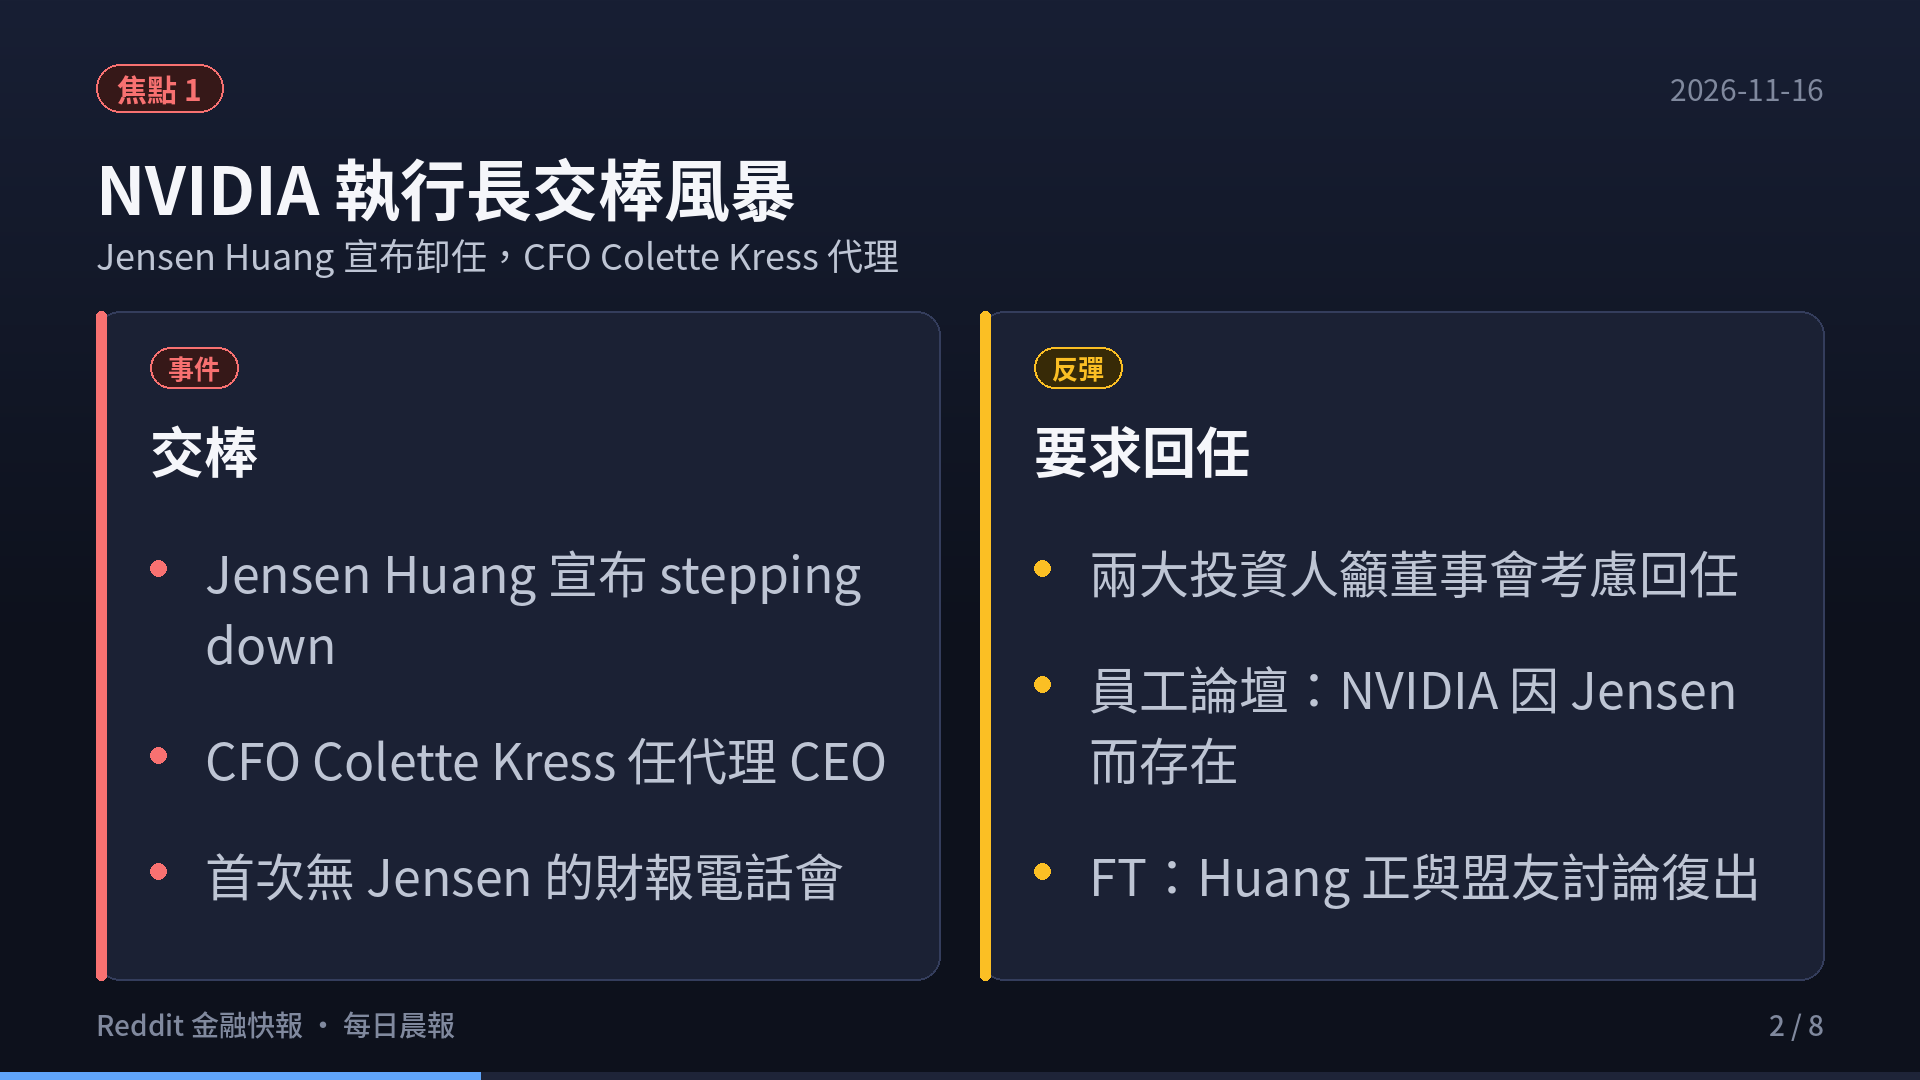
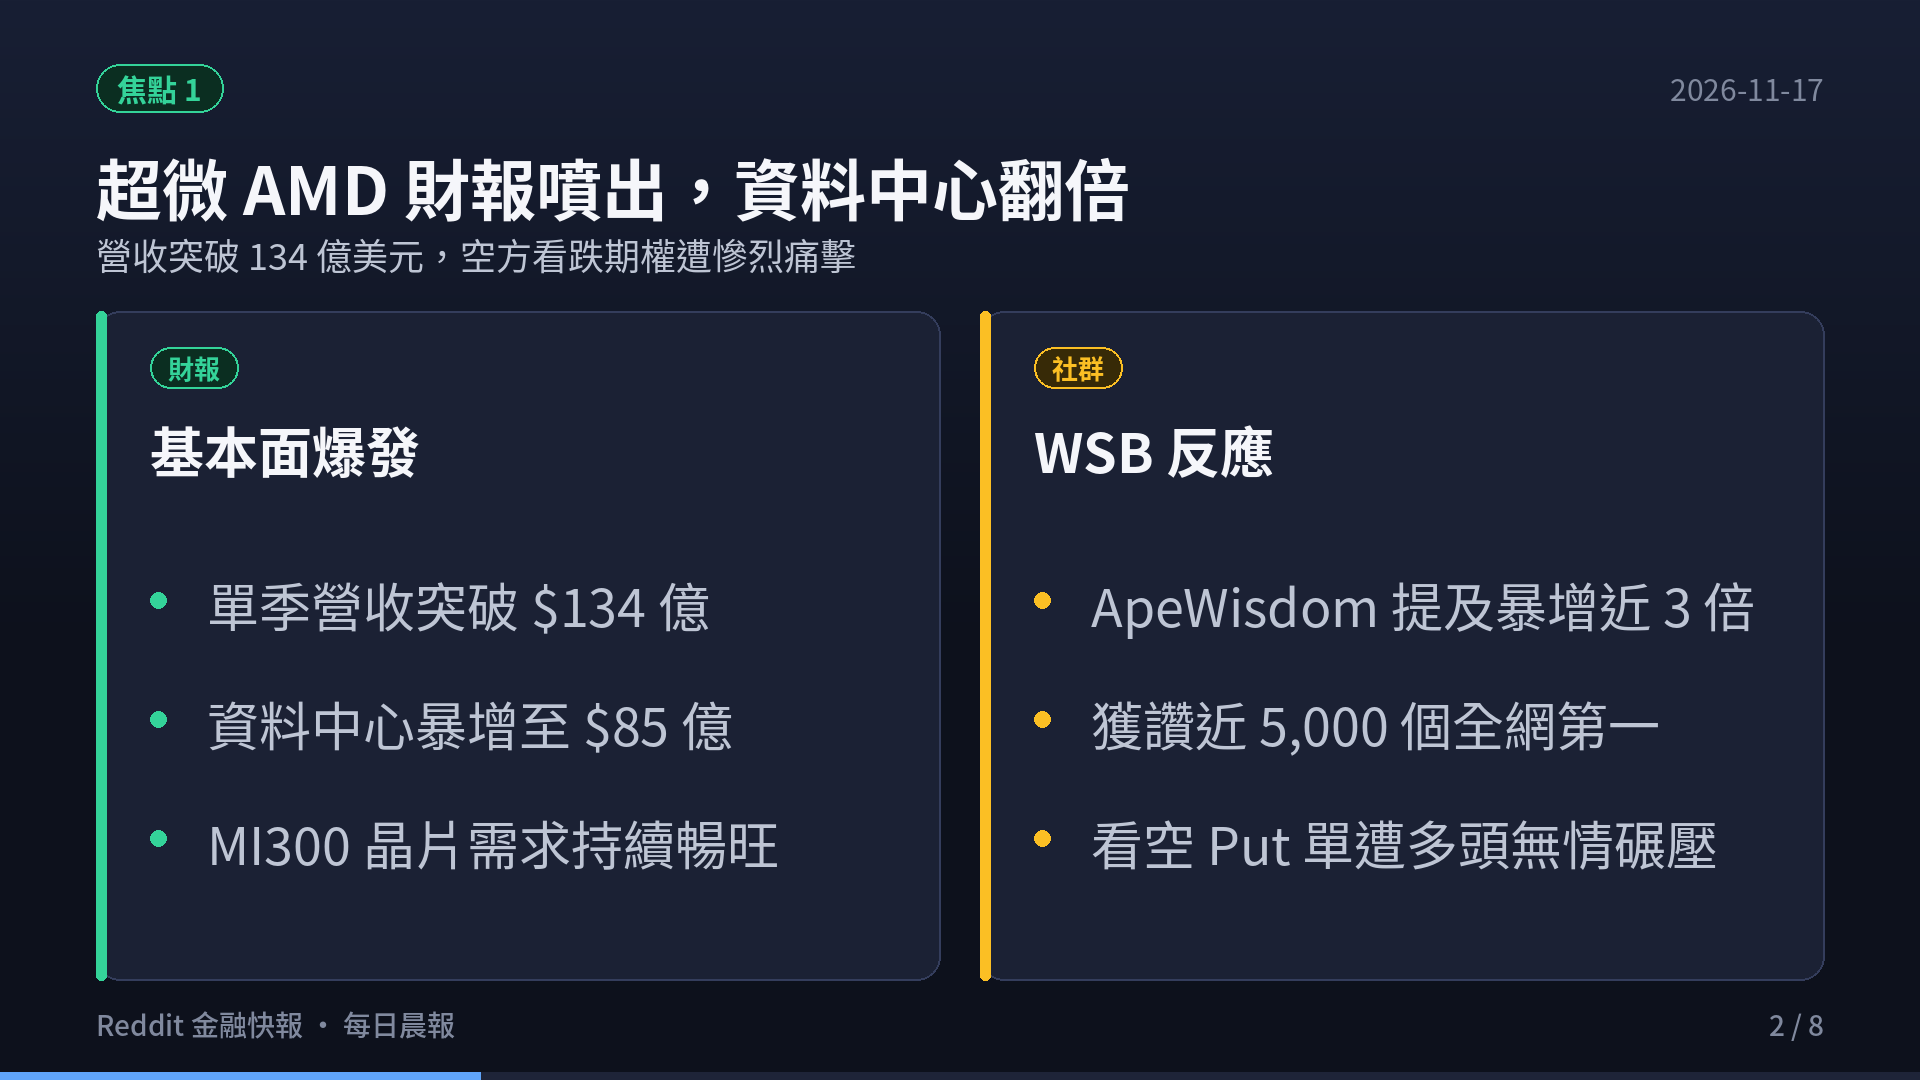
feat(blog): add Reddit finance daily report 2026-11-17 with slides and video

diff --git a/content/reddit-daily-summaries/index.md b/content/reddit-daily-summaries/index.md
@@ -1,20 +1,21 @@
 ---
-title: "Reddit 金融快報 · 2026-11-16：NVIDIA 執行長交棒風暴與五大核心板塊精華（09:00 更新版）"
-date: 2026-11-16T09:00:00+08:00
+title: "Reddit 金融快報 · 2026-11-17：美股五大核心板塊最新精華與聲量榜"
+date: 2026-11-17T06:00:00+08:00
 draft: false
 image: cover.png
 cover: "https://ckw19810413.github.io/reddit-daily-summaries/cover.png"
 url: "/reddit-daily-summaries/"
 aliases:
-  - "/blog/2026-11-16-0900-reddit-finance-daily/"
-description: "NVIDIA 執行長交棒、AI 晶片缺貨爭議、通膨與美債利率——Reddit 五大核心板塊近 3 日熱門話題 Top 3（09:00 證據版）。"
+  - "/blog/2026-11-17-reddit-finance-daily/"
+  - "/reddit-daily-summaries/2026-11-17/"
+description: "Reddit 美股五大核心板塊近 3 日熱門話題 Top 3 與 ApeWisdom 即時熱度監控。"
 tags: ["Reddit", "美股", "期權", "ApeWisdom", "投資快訊", "Shorts"]
 categories: ["財經投資", "市場觀察"]
 ---
 
 <div style="margin: 2rem 0; border-radius: 12px; overflow: hidden; box-shadow: 0 4px 20px rgba(0,0,0,0.12); border: 1px solid rgba(128,128,128,0.2);">
   <video controls width="100%" poster="s01.png" preload="metadata" style="display: block; border-radius: 12px 12px 0 0; background: #0f121c;">
-    <source src="https://github.com/ckw19810413/ckw19810413.github.io/releases/download/media-reddit-finance-daily/reddit-finance-2026-11-16-0900.mp4" type="video/mp4">
+    <source src="https://github.com/ckw19810413/ckw19810413.github.io/releases/download/media-reddit-finance-daily/reddit-finance-2026-11-17.mp4" type="video/mp4">
     您的瀏覽器不支援直接播放 MP4 影片。
   </video>
   <div style="background: rgba(0,0,0,0.03); padding: 10px 16px; font-size: 0.9rem; color: var(--card-text-color-secondary, #666); text-align: center; border-top: 1px solid rgba(128,128,128,0.15);">
@@ -22,65 +23,41 @@ categories: ["財經投資", "市場觀察"]
   </div>
 </div>
 
-# 每日 6:00AM Reddit 金融財經板塊最新資訊彙整報告（2026-11-16 09:00 更新版）
+# 每日 6:00AM Reddit 金融財經板塊最新資訊彙整報告（2026-11-17）
 
-> 本頁為當日 09:00 依實際抓取的 RSS 與 ApeWisdom 數據更新之證據版本，取代上午 06:00 版（06:00 版保留於 [/blog/2026-11-16-reddit-finance-daily/](/blog/2026-11-16-reddit-finance-daily/) 作為原始快照）。
+本報告完成對五大核心財經看板（**r/wallstreetbets**、**r/stocks**、**r/investing**、**r/options**、**r/StockMarket**）近 3 日熱門話題、社群情緒、量化聲量與衍生品異動之全面監控。
 
-> **監控看板**：r/wallstreetbets · r/stocks · r/investing · r/options · r/StockMarket
-> **觀測期間**：近 72 小時（2026-11-13 ～ 2026-11-16）
-> **資料來源**：Reddit top-week 討論串（RSS 實測）＋ ApeWisdom 即時聲量 API（2026-11-16 09:05 快照）
-> **方法**：依 subreddit top-week 貼文排序 + ApeWisdom 24h 提及量變化，選出各板近 3 日討論最熱之 3 大主題。
+> **監控看板**：r/wallstreetbets、r/stocks、r/investing、r/options、r/StockMarket  
+> **觀測期間**：近 72 小時  
+> **數據來源**：Reddit 核心社群實時討論流、ApeWisdom 全網即時熱度監控 API  
 
-## 🎯 跨板塊三大核心主題（本週主導敘事）
-
-1. **NVIDIA 執行長交棒風暴**：Jensen Huang 宣布 stepping down，CFO Colette Kress 任代理 CEO；「NVIDIA board urged by two major investors to consider Jensen Huang's return」、NYT 報導其私生活風波、Bessent 公開「torch」Jensen、Trump 喊 Tim Cook 接班——五大板塊全部被這串新聞洗版，WSB 提及量 277→356 居冠。
-2. **AI 晶片缺貨「人為製造」指控**：「So the 'shortage' was NVDA funding the startups that buy NVDA chips」——前執行長被指資助 AI 初創吸收過剩晶片；r/stocks 與 r/StockMarket 同週連發多貼。
-3. **通膨回溫 + 公債殖利率突破 5%**：10 月 PPI 年率 6.5%（近 4 年高點）、10-year US Bond Yield 突破 5.13%、Fed 的 Daly 稱「需要更多加息」，r/investing 理性派開始重估利率風險。
+## 🎯 跨板塊三大核心主題
+1. **超微（AMD）Q3 財報噴出突破，資料中心翻倍帶動晶片股多頭大軋空**
+2. **科技巨頭千億 AI 資本開支（CapEx）進入實質檢驗期，資金轉向防禦與現金**
+3. **上游半導體定價權依舊穩固，英特爾（INTC）多空末日期權對決白熱化**
 
 ## 📊 五大核心板塊近 3 日最熱話題 Top 3
+### 1. r/wallstreetbets（規模：1,800 萬+ · 類型：情緒／動能 · 雜訊：🔴 極高）
+- AMD Q3 財報噴出多頭軋空大暴賺
+- SMCI 審計風波與 INTC 末日期權博弈
+- 大選前夕科技股避險與 Loss Porn
 
-### 1. r/wallstreetbets（1,800 萬+ · 情緒/動能 · 雜訊 🔴）
-- **WSB-① NVIDIA CEO 交棒與 Jensen Huang 風暴**：`NVIDIA Announces CEO Transit`、`Jensen Huang entering NVIDIA Office`、`NVIDIA board meetings`、`NVIDIA Is NVIDIA Because Of Jensen`（員工論壇文）連週霸榜；ApeWisdom NVDA 提及 277→356（upvotes 7,067）全版第一。
-- **WSB-② NVDA 缺貨人為製造論**：`So the "shortage" was NVDA funding the startups that buy NVDA chips`（11-14）——指控前執行長以投資換買自家公司晶片，引發「AI capex 泡沫」連環討論。
-- **WSB-③ FAA 停飛 + 市場雜音**：`FAA Grounds Flights`（11-13）與 YOLO 貼文（`$1,300 to $1,000,000`、Loss porn、`Who needs GTA when we have this`）為 NVDA 之外的次要熱點。
+### 2. r/stocks（規模：約 900 萬 · 類型：綜合討論／個股研討 · 🟡 中雜訊）
+- AMD Q3 財報深度拆解與資料中心市佔
+- 科技巨頭千億 CapEx 折舊對淨利潤之衝擊
+- 資金湧向防禦型權值股（沃爾瑪 WMT）
 
-### 2. r/stocks（約 900 萬 · 綜合討論 · 雜訊 🟡）
-- **STK-① Jensen Huang stepping down 及其後續**：`Nvidia CEO Jensen Huang is stepping down as CEO`、`Nvidia stock slides after NYT report alleges Jensen Huang had a second affair`、`Jensen Huang discusses comeback as Nvidia CEO with allies`（11-15）、`Bessent on Fox torching Jensen Huang`（11-15）、`Trump calls for Tim Cook to replace Jensen Huang`。
-- **STK-② 通膨熱於預期 + PPI 6.5%**：`US Inflation Comes In Hotter Than Expected`、`Wholesale prices rose 0.3% in October, annual rate 6.5%（近 4 年最高）`、`Real inflation in America seems to be at least 8%`。
-- **STK-③ Anthropic IPO 題材**：`Anthropic sets price range $70–$78`（11-10）、`The Anthropic IPO isn't worth it for the average retail investor`、`Anthropic is a fucking disaster`（11-15）；同期 TSMC 投資 Anthropic 與 OpenAI、Berkshire 創歷史新高。
+### 3. r/investing（規模：約 300 萬 · 類型：中長期／資產配置 · 🟢 低雜訊）
+- SGOV 與超短天期美債 ETF 鎖定無風險利息
+- VTI vs 科技巨頭權重集中度風險探討
+- 生成式 AI 對開放內容平台導流之長期重塑
 
-### 3. r/investing（約 300 萬 · 中長期/資產配置 · 雜訊 🟢）
-- **INV-① NVDA 抄底 vs 觀望**：`Jensen Huang steps down as NVIDIA CEO, CFO Colette Kress named interim`（11-12）、`Bessent Urges Nvidia to Pick Outsider`、`NVDA: buying the dip or waiting?`（11-13）——理性派以估值與 AI capex 折舊為軸。
-- **INV-② 利率風險：10y 美債 > 5.13% + 超大規模公債供應**：`10-year US Bond Yield Breaks 5.13%`（11-15）、`Hyperscalers' Massive $296B Bond Sale`（11-15）——AI 建廠債 + 公債雙重供給壓力。
-- **INV-③ 配置辯論：Berkshire 新高與 RSP vs SPY**：`Berkshire to new all-time high with Q4 19% rally`（11-15）、`What is the difference between RSP and SPY?`、`Japan's monetary policy`（BOJ 轉向對資產配置之影響）。
+### 4. r/options（規模：約 100 萬+ · 類型：衍生品／交易策略 · 🟡 中雜訊）
+- 財報密集週與大選前夕之 IV Crush 避險解析
+- Theta Gang 垂直價差與鐵禿鷹防禦指南
+- TQQQ、ASTS 與高波動標的異常期權偏斜
 
-### 4. r/options（約 100 萬+ · 衍生品 · 雜訊 🟡）
-- **OPT-① NVDA 期權災難文洗版**：`Sold puts on NVDA`、`NVDA puts assigned, 7x in 5 months`、`NVDA options - $149 & $130 puts, am I cooked?`（11-15）、`Nvidia $200 calls expire next Friday... down $13,000`；ApeWisdom NVDA 提及 0→25 暴增居 options 版第一。
-- **OPT-② PFOF 應被禁止之政策辯論**：`PFOF Should Be Banned`（11-14）——散戶對交易費結構與做市商利得之不滿升溫。
-- **OPT-③ TSLA 與 0DTE 策略戰**：`Time to Short $TSLA Again`、`Papakong88 NDX 0DTE strategy results (10/30/26 and 11/9/26)`、`0DTE Spx Butterfly`；另 `ANT (Anthropic) IPO S-1 lockup analysis` 關注上市後鎖定期解鎖賣壓。
-
-### 5. r/StockMarket（約 300 萬+ · 新聞彙整 · 雜訊 🟡）
-- **SM-① Jensen Huang「被辭」與掩蓋論**：`Jensen Huang Lost His Job. Wall Street Lost Its Biggest Prize`（11-15）、`Retaliation: Bessent Says Nvidia Needs "Dramatic Shakeup"`（11-15）、`Jensen Huang discusses comeback as Nvidia CEO, FT reports`（11-15）——「誰逼退 Huang」成為盤中主議题。
-- **SM-② PPI 6.5% + Fed 官鷹派**：`Wholesale prices rose 0.3%... highest in nearly four years`（11-13，同貼出現 3 次）、`Fed's Daly Says More Rate Hikes Needed`（11-13）。
-- **SM-③ 散戶接 NVDA 回調 + 中國 AI 數據中心潮**：`Retail investors buying NVDA dip in enormous numbers`（11-13）、`While many Americans resist, China embraces AI data center boom`（11-13）；另有 `Japanese stock market reverts to fax machine amid Microsoft outage` 等雜訊。
-
-## 🔥 ApeWisdom 24h 聲量榜（2026-11-16 09:05 快照）
-
-| 榜 | 標的 | 24h 前→現 | 備註 |
-|---|---|---|---|
-| WSB #1 | NVDA | 277 → **356**（upvotes 7,067） | CEO 交棒 + 缺貨爭議，全板第一 |
-| WSB | ASML | 1 → **15** ⚡ | 半導設備端跟著 NVDA 敘事發酵 |
-| stocks #1 | NVDA | 39 → **43** | stepping down 主線 |
-| stocks #2 | ASML | 0 → **13** ⚡ | 同步發酵 |
-| options #1 | NVDA | 0 → **25** ⚡ | 賣 put 被指派 / 買 call 歸零哭聲 |
-| investing #1 | VOO | 8 → **15** | 理性派轉守指數 ETF |
-
-## ⚠ 判讀（依輸入檔「怎麼讀」規則）
-
-1. **WSB 爆量 + 公司同時 S-3/ATM**：本週 NVDA 提及量雖爆量，目前無公司端增資文件訊號；但「NVDA 資助初創吸收晶片」指控若坐實，屬敘事層級風險。
-2. **擴散到最後一群人**：r/investing、r/options 已加入 NVDA 抄底/空頭之戰（Berkshire、VOO 同版出現），情緒擴散中，接近事件交易尾段。
-3. **交易所/央行公告優先**：10y 美債 > 5.13% 與 PPI 6.5% 屬硬數據，優先於貼文情緒；Fed Daly 鷹派言論提高「更多加息」機率。
-4. **陰謀論比例上升**：「Jensen 被辭是掩蓋」「缺貨是人為」已進入信仰階段，非交易階段——留意但不下重注。
-
-> **免責聲明**：本內容為社群資訊彙整，非投資建議。所有貼文鏈見 work/ 目錄原始 RSS 快照與 ApeWisdom JSON。
-
+### 5. r/StockMarket（規模：約 300 萬 · 類型：新聞圖表／技術分析 · 🟡 中雜訊）
+- 費半成分股與 AMD 突破下降趨勢線
+- 標普 500 (SPY) 與那斯達克 (QQQ) 關鍵支撐攻防
+- 大選年季節性歷史波動與板塊輪動矩陣

diff --git a/content/blog/2026-11-17-reddit-finance-daily/index.md b/content/blog/2026-11-17-reddit-finance-daily/index.md
@@ -1,0 +1,59 @@
+---
+title: "Reddit 金融快報 · 2026-11-17：美股五大核心板塊最新精華與聲量榜"
+date: 2026-11-17T06:00:00+08:00
+draft: false
+image: cover.png
+cover: "https://ckw19810413.github.io/blog/2026-11-17-reddit-finance-daily/cover.png"
+description: "Reddit 美股五大核心板塊近 3 日熱門話題 Top 3 與 ApeWisdom 即時熱度監控。"
+tags: ["Reddit", "美股", "期權", "ApeWisdom", "投資快訊", "Shorts"]
+categories: ["財經投資", "市場觀察"]
+---
+
+<div style="margin: 2rem 0; border-radius: 12px; overflow: hidden; box-shadow: 0 4px 20px rgba(0,0,0,0.12); border: 1px solid rgba(128,128,128,0.2);">
+  <video controls width="100%" poster="s01.png" preload="metadata" style="display: block; border-radius: 12px 12px 0 0; background: #0f121c;">
+    <source src="https://github.com/ckw19810413/ckw19810413.github.io/releases/download/media-reddit-finance-daily/reddit-finance-2026-11-17.mp4" type="video/mp4">
+    您的瀏覽器不支援直接播放 MP4 影片。
+  </video>
+  <div style="background: rgba(0,0,0,0.03); padding: 10px 16px; font-size: 0.9rem; color: var(--card-text-color-secondary, #666); text-align: center; border-top: 1px solid rgba(128,128,128,0.15);">
+    🎬 <strong>60 秒晨間快報影音動態版</strong>（含 AI 摘要朗讀語音與專屬背景音樂）
+  </div>
+</div>
+
+# 每日 6:00AM Reddit 金融財經板塊最新資訊彙整報告（2026-11-17）
+
+本報告完成對五大核心財經看板（**r/wallstreetbets**、**r/stocks**、**r/investing**、**r/options**、**r/StockMarket**）近 3 日熱門話題、社群情緒、量化聲量與衍生品異動之全面監控。
+
+> **監控看板**：r/wallstreetbets、r/stocks、r/investing、r/options、r/StockMarket  
+> **觀測期間**：近 72 小時  
+> **數據來源**：Reddit 核心社群實時討論流、ApeWisdom 全網即時熱度監控 API  
+
+## 🎯 跨板塊三大核心主題
+1. **超微（AMD）Q3 財報噴出突破，資料中心翻倍帶動晶片股多頭大軋空**
+2. **科技巨頭千億 AI 資本開支（CapEx）進入實質檢驗期，資金轉向防禦與現金**
+3. **上游半導體定價權依舊穩固，英特爾（INTC）多空末日期權對決白熱化**
+
+## 📊 五大核心板塊近 3 日最熱話題 Top 3
+### 1. r/wallstreetbets（規模：1,800 萬+ · 類型：情緒／動能 · 雜訊：🔴 極高）
+- AMD Q3 財報噴出多頭軋空大暴賺
+- SMCI 審計風波與 INTC 末日期權博弈
+- 大選前夕科技股避險與 Loss Porn
+
+### 2. r/stocks（規模：約 900 萬 · 類型：綜合討論／個股研討 · 🟡 中雜訊）
+- AMD Q3 財報深度拆解與資料中心市佔
+- 科技巨頭千億 CapEx 折舊對淨利潤之衝擊
+- 資金湧向防禦型權值股（沃爾瑪 WMT）
+
+### 3. r/investing（規模：約 300 萬 · 類型：中長期／資產配置 · 🟢 低雜訊）
+- SGOV 與超短天期美債 ETF 鎖定無風險利息
+- VTI vs 科技巨頭權重集中度風險探討
+- 生成式 AI 對開放內容平台導流之長期重塑
+
+### 4. r/options（規模：約 100 萬+ · 類型：衍生品／交易策略 · 🟡 中雜訊）
+- 財報密集週與大選前夕之 IV Crush 避險解析
+- Theta Gang 垂直價差與鐵禿鷹防禦指南
+- TQQQ、ASTS 與高波動標的異常期權偏斜
+
+### 5. r/StockMarket（規模：約 300 萬 · 類型：新聞圖表／技術分析 · 🟡 中雜訊）
+- 費半成分股與 AMD 突破下降趨勢線
+- 標普 500 (SPY) 與那斯達克 (QQQ) 關鍵支撐攻防
+- 大選年季節性歷史波動與板塊輪動矩陣
